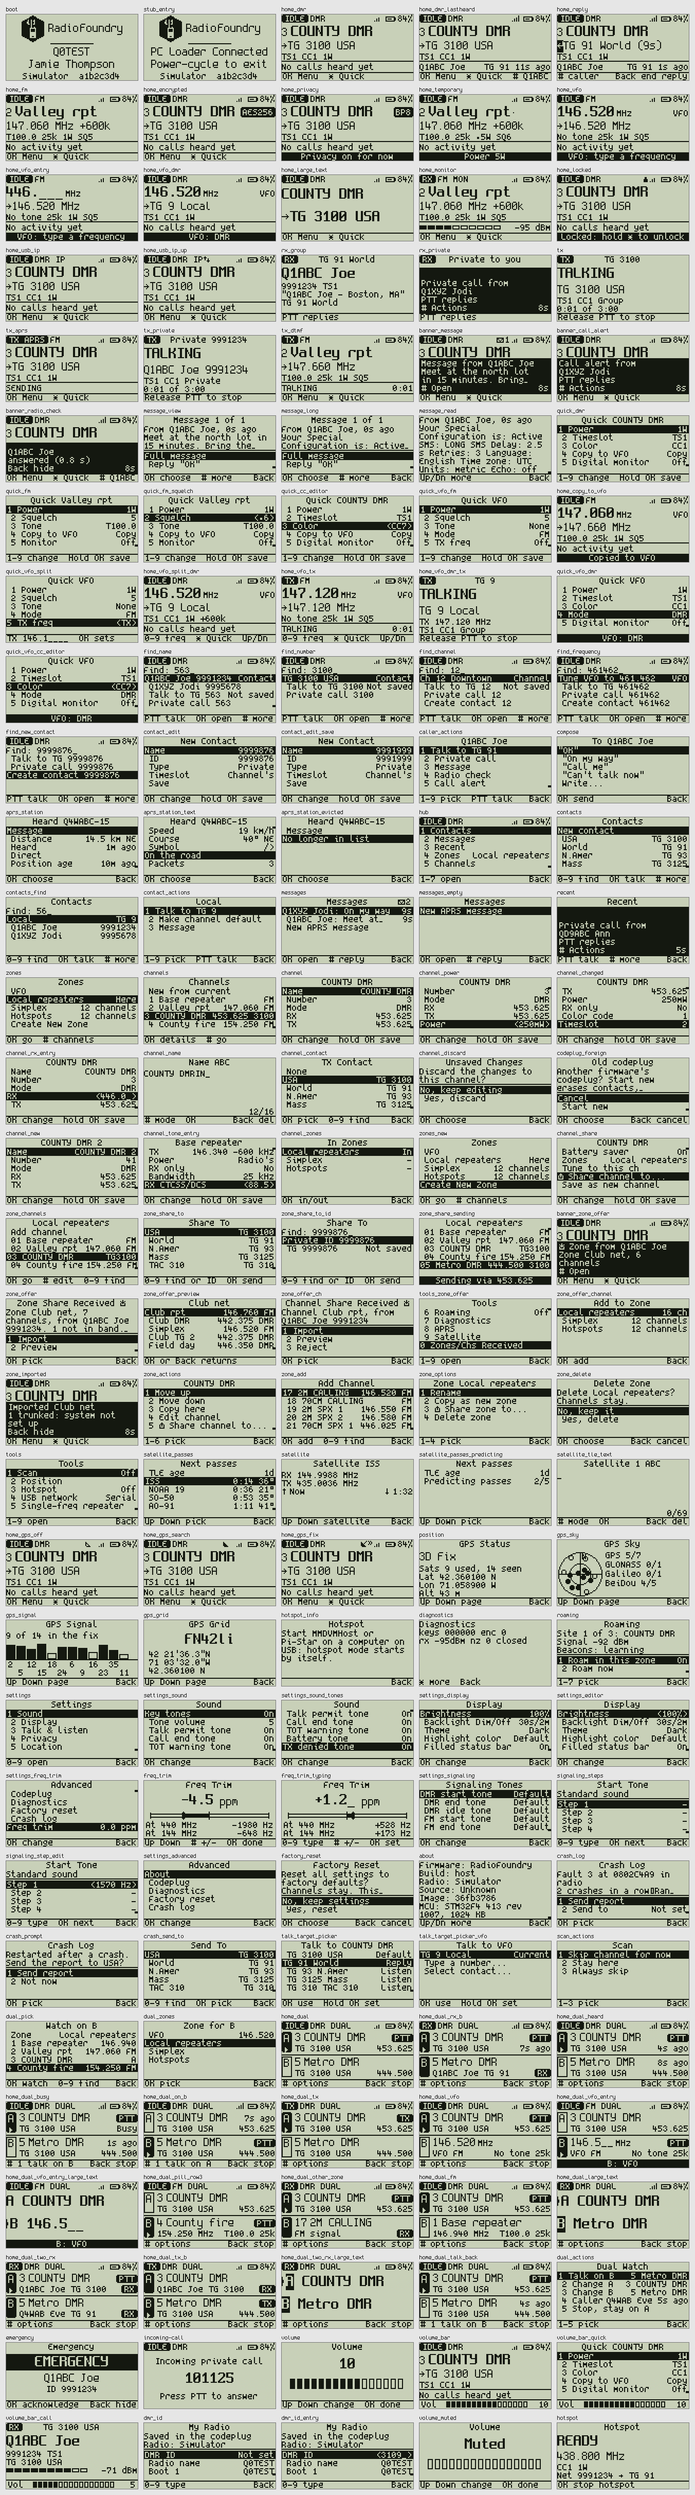
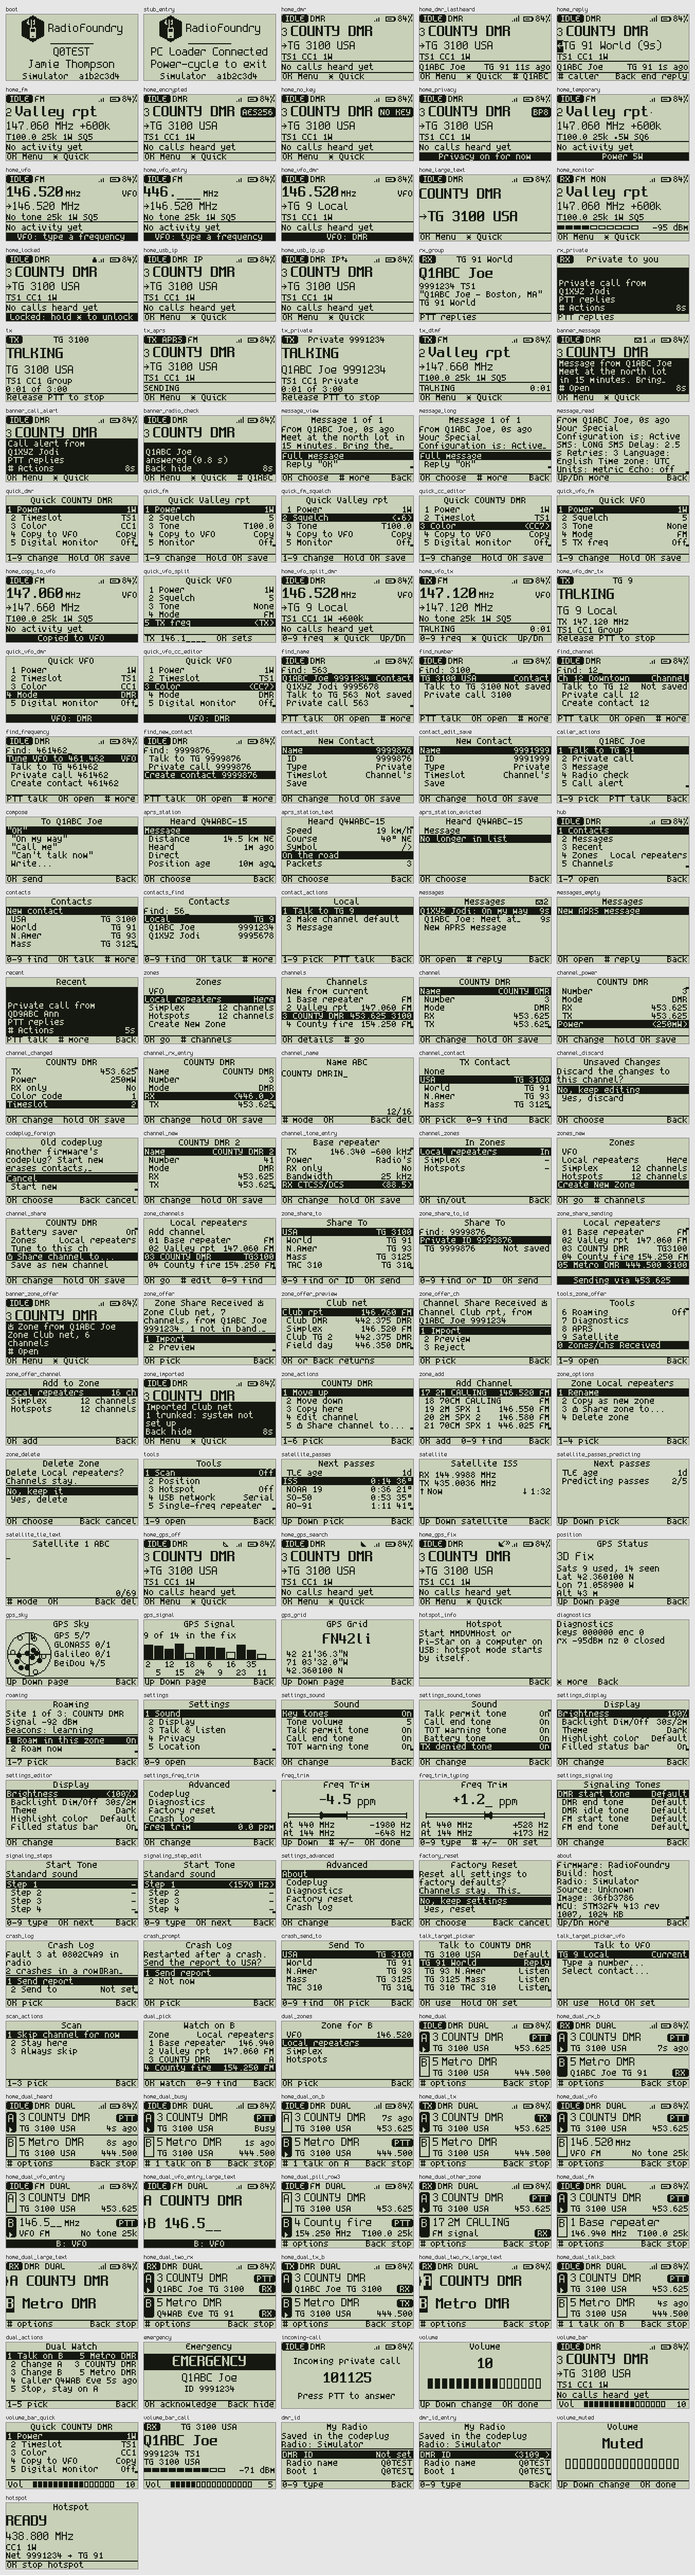
Home: NO KEY on an AES channel the radio has no key for
An AES channel whose key isn't in the store (wiped, erased, or a codeplug
from another radio) still showed AES256 and a padlock, because Home went
by the channel's key reference alone; the radio refuses to transmit
there. Home now goes by whether the radio loaded the key: without one the
badge says NO KEY in the warning color, no padlock, and where the badge
has no room the chips line says "No key". Found on the bench after a
remote wipe.

uiFlowTest: no key bound, a bound key gone from the store, and AES256
back once the key is there. Gallery: home_no_key.

diff --git a/core/ui/ui_screens.c b/core/ui/ui_screens.c
@@ -1026,8 +1026,8 @@ static void draw_chips_dmr(const radio_view_t *v, const ui_state_t *s);
 #endif
 
 
-// The channel transmits encrypted (Home's badge or padlock): an AES channel with its key (CONFIG_DMR_AES), or
-// basic privacy on for DMR. The VFO counts the same way
+// The channel transmits encrypted (Home's badge or padlock): an AES channel whose key the radio loaded
+// (CONFIG_DMR_AES), or basic privacy on for DMR. The VFO counts the same way
 bool ui_home_encrypted(const radio_view_t *v)
 {
 #if CONFIG_DMR
@@ -1035,11 +1035,24 @@ bool ui_home_encrypted(const radio_view_t *v)
 		return false;
 #if CONFIG_DMR_AES
 	if (v->ch.kind == CODEPLUG_KIND_DMR_AES)
-		return v->ch.aes_ref != 0;	// no key bound: the radio refuses to transmit there, no lock to promise
+		return v->ch.aes_ref != 0 && v->dmr.privacy;	// the key loaded (radio_aes_configure), else ui_home_no_key
 #endif
 	return v->dmr.privacy;
 #else
 	(void)v;	// no DMR: nothing on Home is encrypted
+	return false;
+#endif
+}
+
+// An AES channel the radio has no key for: none bound, or the bound one not in the key store (wiped, erased, or a
+// codeplug from another radio). The radio refuses to transmit there (TXDENY_AES_KEY) and plays nothing encrypted, so
+// Home says so rather than promising a lock
+bool ui_home_no_key(const radio_view_t *v)
+{
+#if CONFIG_DMR_AES
+	return v->ch.mode == RADIO_MODE_DMR && v->ch.kind == CODEPLUG_KIND_DMR_AES && !ui_home_encrypted(v);
+#else
+	(void)v;
 	return false;
 #endif
 }
@@ -1127,6 +1140,8 @@ static const char *bp_name(void)
 // translated); NULL when the channel is clear
 static const char *enc_badge_text(const radio_view_t *v)
 {
+	if (ui_home_no_key(v))
+		return TR(HOME_BADGE_NO_KEY, "NO KEY");	// in the warning color (draw_name)
 	if (!ui_home_encrypted(v))
 		return NULL;
 #if CONFIG_DMR_AES
@@ -1140,10 +1155,10 @@ static bool home_badge_drawn;	// this frame's name line has the type badge (the 
 
 // The type badge: the text in the background color on a filled block of the privacy color, its bottom on the name's
 // baseline. Returns its width
-static int draw_enc_badge(const font_t *f, int x, int base, const char *text)
+static int draw_enc_badge(const font_t *f, int x, int base, const char *text, color_t color)
 {
 	int w = gfx_text_width(f, text) + 4, h = f->ascent + 3;
-	gfx_round_fill(x, base - h + 1, w, h, ui_col.priv);
+	gfx_round_fill(x, base - h + 1, w, h, color);
 	gfx_text(f, x + 2, base - f->ascent - 1, text, ui_col.bg);
 	return w;
 }
@@ -1234,7 +1249,8 @@ static void draw_place(const radio_view_t *v, const ui_state_t *s)
 	// An encrypted channel: its type in a reverse badge at the right end (AES256, BP8, BP16), or a padlock where the
 	// badge would squeeze the name below the small font; the medium font's height either way
 	const char *badge = enc_badge_text(v);
-	bool lock = badge != NULL;
+	bool no_key = ui_home_no_key(v);
+	bool lock = badge != NULL && !no_key;	// no padlock without a key: the chips line says "No key" instead
 	int lock_h = L->medium->ascent;
 	int badge_w = badge != NULL ? gfx_text_width(L->small, badge) + 4 : 0;
 	home_badge_drawn = false;
@@ -1252,7 +1268,7 @@ static void draw_place(const radio_view_t *v, const ui_state_t *s)
 	gfx_text_fit(nf, v->ch.name, avail, fit, sizeof fit);
 	x = gfx_text(nf, x, nf == L->large ? y : base - nf->ascent, fit, ui_col.fg);
 	if (home_badge_drawn)
-		draw_enc_badge(L->small, w - badge_w, base, badge);	// right aligned, the name keeps its place
+		draw_enc_badge(L->small, w - badge_w, base, badge, no_key ? ui_col.warn : ui_col.priv);	// right aligned
 	else if (lock)
 		draw_padlock(w - padlock_width(lock_h), base - lock_h, lock_h, ui_col.priv);
 	if (v->temporary)
@@ -2042,6 +2058,12 @@ static void draw_chips_dmr(const radio_view_t *v, const ui_state_t *s)
 	// AES256, BP8 or BP16 (by key size, not translated)
 	const char *enc = NULL;
 #if CONFIG_DMR_AES
+	if (ui_home_no_key(v)) {
+		const char *nk = TR(HOME_CHIP_NO_KEY, "No key");
+		if (!home_badge_drawn && x + gfx_text_width(f, nk) <= gfx_width())
+			gfx_text(f, x, L->chips_y, nk, ui_col.warn);
+		return;
+	}
 	if (v->ch.kind == CODEPLUG_KIND_DMR_AES && v->ch.aes_ref != 0)
 		enc = home_badge_drawn ? NULL : "AES256";	// the name's badge says it already
 	else

diff --git a/tests/host/sim/ui_sim.c b/tests/host/sim/ui_sim.c
@@ -3728,6 +3728,7 @@ static bool run_token(char *t, char *err, size_t len)
 		view.ch.mode = RADIO_MODE_DMR;
 		view.ch.kind = CODEPLUG_KIND_DMR_AES;
 		view.ch.aes_ref = 2;
+		view.dmr.privacy = true;	// the radio loaded its key (radio_aes_configure)
 		changed();
 		advance(200);
 		return true;
@@ -3736,6 +3737,16 @@ static bool run_token(char *t, char *err, size_t len)
 		view.ch.mode = RADIO_MODE_DMR;
 		view.ch.kind = CODEPLUG_KIND_DMR_AES;
 		view.ch.aes_ref = 0;
+		view.dmr.privacy = false;
+		changed();
+		advance(200);
+		return true;
+	}
+	if (strcmp(t, "aeschangone") == 0) {	// a key bound, but not in the store (wiped): the radio loaded none
+		view.ch.mode = RADIO_MODE_DMR;
+		view.ch.kind = CODEPLUG_KIND_DMR_AES;
+		view.ch.aes_ref = 2;
+		view.dmr.privacy = false;
 		changed();
 		advance(200);
 		return true;

diff --git a/tests/host/uiFlowTest.c b/tests/host/uiFlowTest.c
@@ -924,6 +924,10 @@ static const flow_t flows[] = {
 	// The top bar says DMR on an AES channel, as with basic privacy: the badge names the encryption
 	{ "S top bar: an AES channel says DMR", "aeschan", "", "word=DMR", 0, false },
 	{ "S top bar: an AES channel without a key says DMR", "aeschan0", "", "word=DMR", 0, false },
+	{ "S no key: an AES channel with none bound says so", "aeschan0", "", "shows=NO_KEY hides=AES256 padlock=0", 0, false },
+	{ "S no key: its key wiped from the store says so", "aeschangone", "", "shows=NO_KEY hides=AES256 padlock=0", 0,
+	  false },
+	{ "S no key: back once the key is there", "aeschangone aeschan", "", "shows=AES256 hides=NO_KEY", 0, false },
 #endif
 #if CONFIG_DMR && CONFIG_DMR_PRIVACY
 	// Basic privacy on (the Quick tile, the 1-255 key 123)

diff --git a/tests/host/uiSim.c b/tests/host/uiSim.c
@@ -45,6 +45,7 @@ static const struct { const char *name, *script; } gallery[] = {
 	{ "home_fm", "down" },
 #if CONFIG_DMR_AES
 	{ "home_encrypted", "aeschan" },	// an AES channel: its type in a badge on the name's line
+	{ "home_no_key", "aeschangone" },	// an AES channel whose key is gone: NO KEY in the warning color
 #endif
 #if CONFIG_DMR && CONFIG_DMR_PRIVACY
 	// Basic privacy on (the 1-255 key 123, the Quick tile): BP8 in the badge

diff --git a/core/ui/ui_screens.h b/core/ui/ui_screens.h
@@ -309,6 +309,7 @@ bool ui_sb_gw_caller(sbuf_t *b, uint32_t src);
 // The channel on Home transmits encrypted (AES with its key, or basic privacy on): Home draws a padlock after its
 // name
 bool ui_home_encrypted(const radio_view_t *v);
+bool ui_home_no_key(const radio_view_t *v);
 
 // The last Home frame drew the encryption type badge after the channel's name (else the padlock, or nothing)
 bool ui_home_badge_drawn(void);

diff --git a/docs/spec/ui.md b/docs/spec/ui.md
@@ -97,8 +97,12 @@ Text is shortened with a middle ellipsis only as a last resort (P5 allows it for
   of the privacy blue) at the right end of the channel name's line: AES256 on an AES channel with its key, BP8 (the
   1-255 key) or BP16 (the 16-bit key) with basic privacy. The name keeps its place and shrinks to a smaller font
   before the badge gives way; where even the small font would not fit beside it, a hand-drawn padlock (7x8, 9x12 or
-  12x16, by the font) stands in and the chips line names the scheme. A clear channel, or an AES channel with no key bound (it won't transmit), shows
-  neither.
+  12x16, by the font) stands in and the chips line names the scheme. A clear channel shows neither.
+- An AES channel the radio holds no key for (none bound, or the bound key not in the store: wiped, erased, or a
+  codeplug from another radio) shows NO KEY in the same badge shape in the warning color, and no padlock; where the
+  badge has no room, the chips line says "No key" in the warning color. The radio refuses to transmit there and plays
+  nothing encrypted, so Home never shows a lock it can't keep. It goes by whether the radio loaded the key
+  (`radio_view_t.dmr.privacy` after `radio_aes_configure`), not by the channel's key reference alone.
   On an AES channel the top bar's mode word says DMR, as with basic privacy: the badge names the encryption.
 - NXDN Home shows an ENC marker with the caller and destination when a scrambled call plays. It shows "Encrypted: not played" when
   the radio receives an encrypted call and holds its audio.

diff --git a/docs/user/09-dmr.md b/docs/user/09-dmr.md
@@ -307,7 +307,7 @@ to the radio. Both radios must have the same key bytes and ID. The system and ch
 
 On the handset, open the DMR channel editor and press **OK** on **AES key** to cycle through the provisioned
 system number/key ID pairs. **None** removes channel AES. Save the channel to keep the choice across restarts.
-A protected channel without its key refuses PTT ("AES key or TX disabled"). Text messages and packet data aren't
+A protected channel without its key refuses PTT ("AES key or TX disabled"), and Home shows **NO KEY** in an amber badge instead of **AES256**, for example after the keys were wiped or with a codeplug from another radio. Text messages and packet data aren't
 sent on these channels yet ("Encrypted channels can't send text"), and your GPS position is not sent on them. Radio
 check, call alert and emergency alarms work as on any DMR channel. The editor's image export omits key bytes by
 default. Including keys produces a file that contains the keys.
